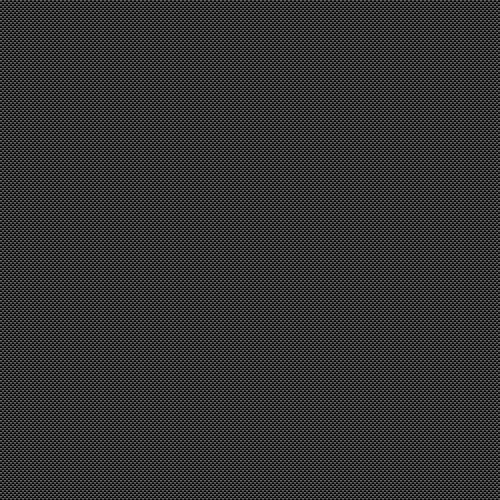
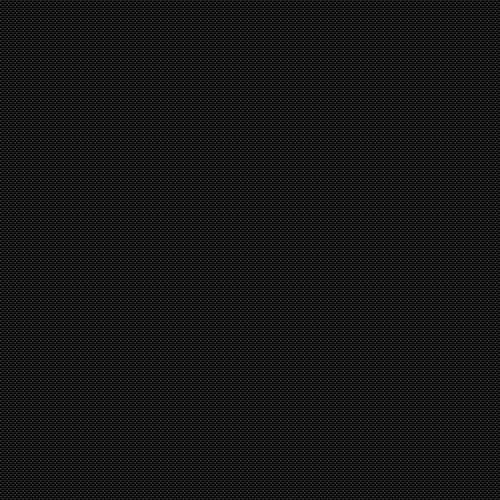
Design Update

diff --git a/editor/general/index.html b/editor/general/index.html
@@ -146,10 +146,10 @@
         </script>
 	</head>
 	
-	<body style="position: absolute; height: 100%; width: 100%;">
+	<body style="position: fixed; height: 100%; overflow: hidden; width: 100%;">
            
         
-		<div id="Oben" style="position: absolute; border-radius: 0px 0px 10px 10px; border: solid 2px #fff; border-top: none; left: 50%; margin-left: -300px; height: 40px; width: 600px; z-index: 10000;">
+		<div id="Oben" style="position: absolute; border-radius: 0px 0px 10px 10px; border: solid 2px #fff; border-top: none; left: 50%; margin-left: -300px; height: 41px; width: 600px; z-index: 10000; background-image: url(images/karbon_bg.png);">
         		
         	<div id="header" style="margin-left: 10px;">
         		<ul class="nav">
@@ -177,20 +177,20 @@
 			</select>
 			
 
-			<div><img src="images/drehen_png.png" id="ButtonRotieren" onmouseover="this.style.cursor='pointer';" style="float: right; width: 30px; height: 30px; margin: 5px; margin-right: 10px;"></div>
-			<div><img src="images/skalieren_png.png" id="ButtonSkalieren" onmouseover="this.style.cursor='pointer';" style="float: right; width: 30px; height: 30px; margin: 5px; margin-right: 2px;"></div>
-			<div><img src="images/verschieben_png.png" id="ButtonVerschieben" onmouseover="this.style.cursor='pointer';" style="float: right; width: 30px; height: 30px; margin: 5px; margin-right: 2px;"></div>
-			<div><img src="images/hand_png.png" id="ButtonHand" onmouseover="this.style.cursor='pointer';" style="float: right; width: 30px; height: 30px; margin: 5px; margin-right: 2px; margin-left: 0px;"></div>
+			<div><img src="images/drehen_png.png" id="ButtonRotieren" onmouseover="this.style.cursor='pointer';" style="float: right; width: 28px; height: 28px; margin: 5px; margin-right: 10px;"></div>
+			<div><img src="images/skalieren_png.png" id="ButtonSkalieren" onmouseover="this.style.cursor='pointer';" style="float: right; width: 28px; height: 28px; margin: 5px; margin-right: 2px;"></div>
+			<div><img src="images/verschieben_png.png" id="ButtonVerschieben" onmouseover="this.style.cursor='pointer';" style="float: right; width: 28px; height: 28px; margin: 5px; margin-right: 2px;"></div>
+			<div><img src="images/hand_png.png" id="ButtonHand" onmouseover="this.style.cursor='pointer';" style="float: right; width: 28px; height: 28px; margin: 5px; margin-right: 2px; margin-left: 0px;"></div>
         		
        	</div>
         
         
-        <div id="Unten" style="position: absolute; border-radius: 10px 10px 0px 0px; border: solid 2px #fff; border-bottom: none; left: 50%; margin-left: -300px; height: 40px; width: 600px; bottom: 0px; z-index: 10000;"> 
+        <div id="Unten" style="position: absolute; border-radius: 10px 10px 0px 0px; border: solid 2px #fff; border-bottom: none; left: 50%; margin-left: -300px; height: 40px; width: 600px; bottom: 0px; z-index: 10000; background-image: url(images/karbon_bg.png);"> 
         	
         	<div style="float: left; position: fixed; margin-left: 25px;">
         		<p>
         			<label style="color: white;">Objekt:  </label>
-        			<input type="text" id="ObjektName" class="amount" value="" style="width: 150px; font-weight: bold; height: 15px; border: 1px solid gray; background: transparent;" />
+        			<input type="text" id="ObjektName" class="amount" value="" style="width: 150px; font-weight: bold; height: 15px; border: 1px solid gray; background-color: #333333;" />
         		</p>
         	</div>
         	
@@ -198,13 +198,13 @@
         	<div style="float: right; margin-right: 25px;">
 				<p>
 					<label class="text-slider" style="color: white;">X :</label>
-					<input type="text" id="amount-x" class="amount" value="0"/>
+					<input type="text" id="amount-x" style="background-color: #333333; padding: 4px; border: solid 1px gray;" class="amount" value="0"/>
 	
 					<label class="text-slider" style="color: white;">Y :</label>
-					<input type="text" id="amount-y" class="amount" value="0"/>
+					<input type="text" id="amount-y" style="background-color: #333333; padding: 4px; border: solid 1px gray;" class="amount" value="0"/>
 	
 					<label class="text-slider" style="color: white;">Z :</label>
-					<input type="text" id="amount-z" class="amount" value="0"/>
+					<input type="text" id="amount-z" style="background-color: #333333; padding: 4px; border: solid 1px gray;" class="amount" value="0"/>
 				</p>
         	</div>
         </div> 
@@ -223,7 +223,7 @@
                 <div id="SlopedCylinder" onmouseover="this.style.cursor='pointer';"><img src="images/slopedcylinder.jpg" style="width: 60px; height: 60px; margin: 5px; margin-top: 0px; border: solid 1px #fff; border-radius: 5px;" /><div style="color: #fff; margin-top: -52px; margin-bottom: 25px; margin-left: 17px;">Slope Cylinder</div></div>
             </div>
             <div id="button_Links" onclick="fadeLeft();" onmouseover="this.style.cursor='pointer';" style="position:absolute; 
-            width: 30px; height: 100px; left: 77px; top: 50%; margin-top: -50px; z-index: 100000; background-image: url(images/primitiv.png);"> </div>
+            width: 30px; height: 150px; left: 77px; top: 50%; margin-top: -75px; z-index: 100000; background-image: url(images/primitiv.png);"> </div>
         </div>
         
         
@@ -274,7 +274,7 @@
 				 
            	</div>
             <div id="button_Rechts" onclick="fadeRight();" onmouseover="this.style.cursor='pointer';" style="position:absolute; 
-            width: 30px; height: 100px; right: 170px; top: 50%; margin-top: -50px; z-index: 100000; background-image: url(images/params.png);"> </div>
+            width: 30px; height: 150px; right: 170px; top: 50%; margin-top: -75px; z-index: 100000; background-image: url(images/params.png);"> </div>
 		</div>
 
 

diff --git a/editor/general/css/home.css b/editor/general/css/home.css
@@ -30,10 +30,10 @@ body
 		linear,
 		left bottom,
 		left top,
-		color-stop(0, rgb(0,0,0)),
-		color-stop(0.72, rgb(71,71,71)),
-		color-stop(1, rgb(71,71,71)),
-		color-stop(1, rgb(148,148,148))
+		color-stop(0, rgb(41,41,41)),
+		color-stop(0.72, rgb(105,105,105)),
+		color-stop(1, rgb(105,105,105)),
+		color-stop(1, rgb(140,140,140))
 	);
 
 	position:absolute;
@@ -73,19 +73,21 @@ body
 {
 	width: 85px;
 	color: #FFFFFF;
-	background: transparent;
-    height: 10px;
+        height: 10px;
 	text-decoration: none;
-	padding: 9px;
+	padding: 11px;
+        padding-right: 9px;
+        padding-top: 7px;
 	display: block;
-    font-family: Calibri;
-    border: solid 1px #fff;
-    border-radius: 2px;
+        font-family: Calibri;
+        border: solid 1px gray;
+        border-radius: 0px;
+        background-color: #333333;
 }
 
 .nav li a:hover
 {
-	background-color: #333333;
+	background-color: #414141;
 }
 
 .nav > li
@@ -116,22 +118,19 @@ body
 
 #button_Links
 {
-    box-shadow: 1px 1px 10px grey,
-                1px -1px 10px grey;
+
 }
 
 
 #button_Rechts
-{ 	
-    box-shadow:-1px 1px 10px grey,
-               -1px -1px 10px grey;
+{
+
 }
 
 
 #Oben
 { 	
-    box-shadow: 3px 3px 3px grey,
-               -3px 3px 3px grey;
+    background-image: url(images/karbon_bg.png);
 }
 
 
@@ -155,9 +154,11 @@ body
   	border-bottom-right-radius: 2px;
  	border-top-left-radius: 30px;
  	border-top-right-radius: 30px;*/
- 	
-    box-shadow: 3px -3px 3px grey,
-               -3px -3px 3px grey;
+        
+        /*box-shadow:   3px 3px 3px grey,
+                     -3px 3px 3px grey,
+                      3px -3px 3px grey,
+                     -3px -3px 3px grey;*/
 }
 
 /****************************************************************************************************/
@@ -165,8 +166,8 @@ body
 
 #accordeon-oben .ui-accordion-content
 {
-	padding: 5%;
-	background: #AAAAAA;
+    padding: 5%;
+    background: #AAAAAA;
 }
 
 
@@ -194,9 +195,8 @@ body
 
 #loeschen
 {
-	margin-left: 2px;
-	
-	z-index: 200;    			
+    margin-left: 2px;
+    z-index: 200;    			
     min-width: 24.2%;
     max-width: 24.2%;
     min-height: 100%;
@@ -210,7 +210,7 @@ body
 
 #ButtonHand, #ButtonRotieren, #ButtonSkalieren, #ButtonVerschieben
 {
-	border:1px solid gray;
+    border:1px solid gray;
 }
 
 #ButtonHand:hover, #ButtonRotieren:hover, #ButtonSkalieren:hover, #ButtonVerschieben:hover
